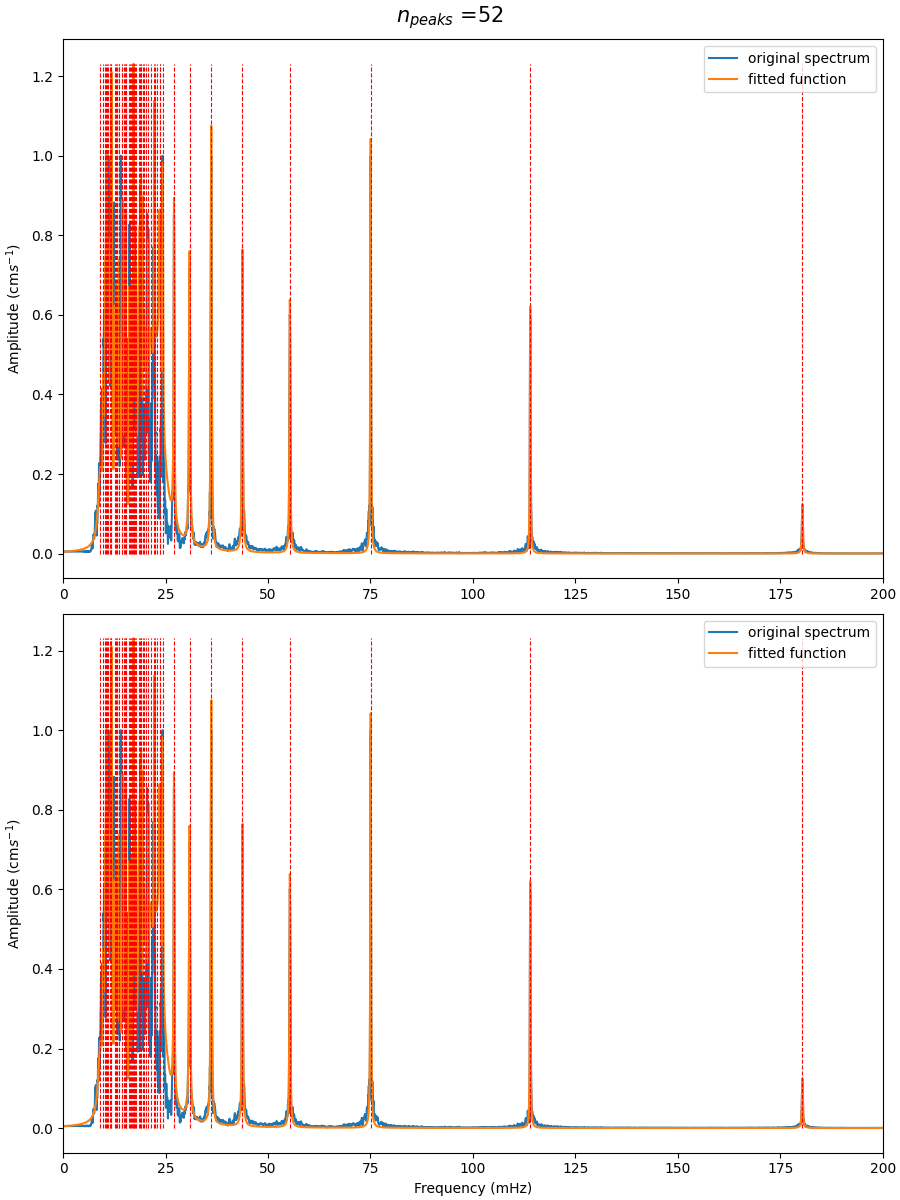
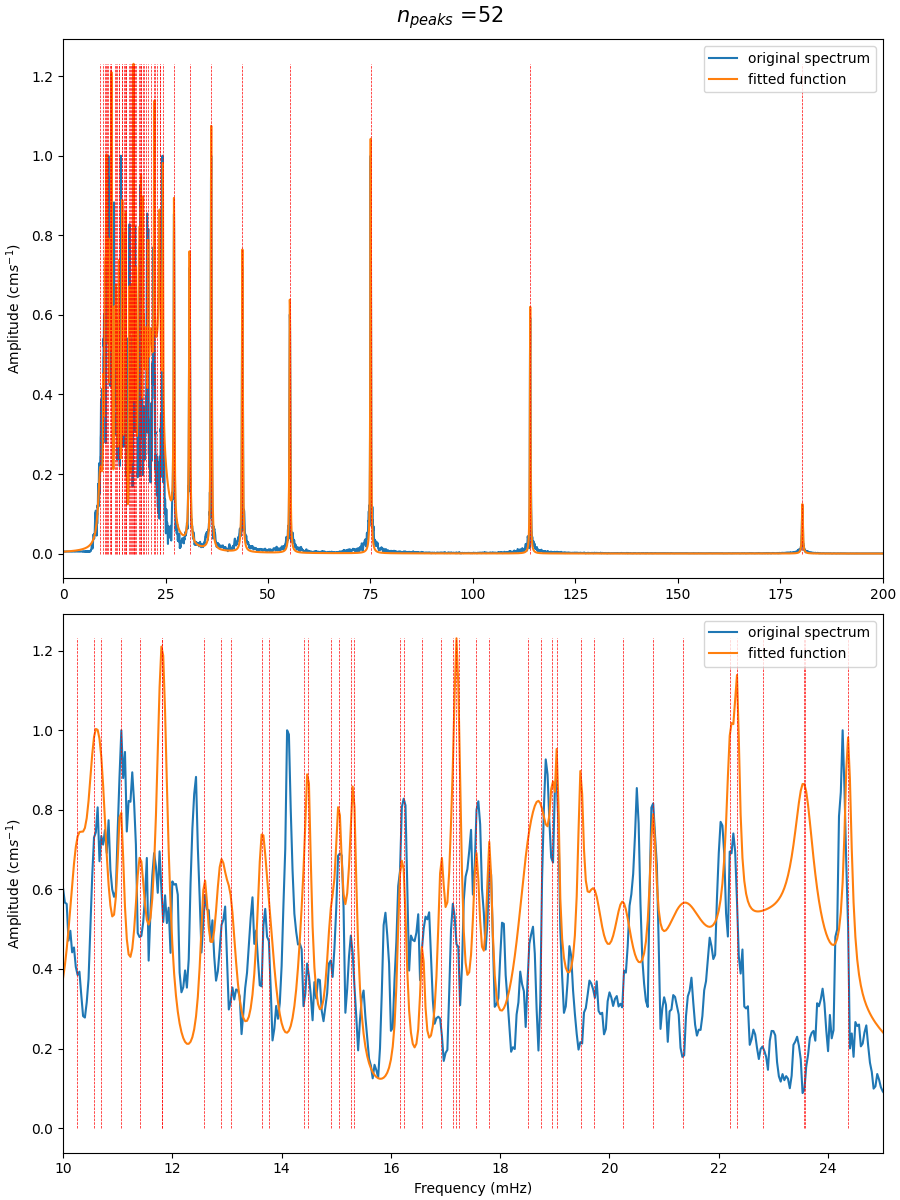
need to fix issue with vzc files

diff --git a/code/plotting/temp_period_spacings.py b/code/plotting/temp_period_spacings.py
@@ -1,0 +1,324 @@
+import numpy as np
+import matplotlib.pyplot as plt
+import scipy.sparse as sp
+from scipy import interpolate
+import scipy.io as sci
+from scipy import stats
+from scipy.signal import find_peaks
+import scipy.sparse.linalg as spla
+
+
+
+
+
+
+
+class BackgroundProfile:
+    def __init__(self, nnew, ntotal, numprocs, time_step, refstate):
+        # ---- parameters ----
+        self.dt = time_step
+
+        # ---- load background data ----
+        backdat = np.genfromtxt(refstate, delimiter='\t')
+
+        # ---- geometry ----
+        self.nn = int(ntotal / 2)
+        self.nzones = len(backdat)
+        self.nz = int(self.nzones / numprocs)
+
+        # ---- background quantities ----
+        self.radius = backdat[:, 0]
+        self.den = backdat[:, 1]
+        self.rho = self.den
+        self.temp = backdat[:, 2]
+        self.dtbardz = backdat[:, 3]
+        self.diff = backdat[:, 4]
+        self.g = backdat[:, 5]
+        self.hrho = backdat[:, 6]   # negative inverse scale height
+        self.hrho2 = backdat[:, 7]
+        self.a = backdat[:, 8:10]
+        self.b = backdat[:, 11:13]
+
+        # ---- derived quantities ----
+        self.gamma = 5 / 3
+        self.N2 = (self.g * self.diff) / (self.gamma * self.temp)
+
+
+
+
+def radial_order_calculation(foundpeakidxs, foundpeaks, spectrum, radius):
+    freqs = foundpeaks[::-1]
+    amps = spectrum[foundpeakidxs[::-1], :]
+
+
+    from scipy.signal import find_peaks
+    rad_orders = []
+    lower = 44
+    for i in range(len(freqs)):
+
+        from scipy.ndimage import gaussian_filter1d
+        if i < 10:
+            A = gaussian_filter1d(amps[i, lower:135], sigma=1)
+            dAdr = np.gradient(A, radius[lower:135])
+            d2Adr2 = np.gradient(dAdr, radius[lower:135])
+        else:
+            A = amps[i, lower:135]
+            dAdr = np.gradient(A, radius[lower:135])
+            d2Adr2 = np.gradient(dAdr, radius[lower:135])
+
+        absA = np.abs(A)
+        nodes, foo = find_peaks(-absA, distance=2)
+        rad_orders.append(len(nodes))
+
+    return rad_orders
+
+
+
+def pspmake2_period(period_days, nstart):
+    import numpy as np
+
+    period_days = np.asarray(period_days)
+
+    # Period spacings (in days)
+    deltap = -np.diff(period_days)
+
+    # Reverse ordering if required
+    period_r = period_days[::-1]
+
+    radial_orders_r = np.arange(len(period_r)) + nstart
+    radial_orders = -radial_orders_r[::-1]
+
+    return deltap, period_days[1:], radial_orders[1:]
+
+
+
+def spectrum_to_periodogram(spectrum, frequencies):
+    # Input spectra at one radius and corresponding frequencies
+    periods = 1 / (frequencies * 1e-6)  # in seconds
+    P = periods / (3600 * 24)  # convert to days
+
+    return spectrum
+
+
+
+def expectedpeaks(foundfreqs, num_lines):
+    # Takes in foundpeaks - peak frequencies in microhz going from high to low n
+    peak_periods = 1 / (foundfreqs * 1e-6)  # in seconds
+    peak_periods = peak_periods / (3600 * 24)  # in days
+    start = peak_periods[-2] #n=-1
+    print('start:', start)
+    step = peak_periods[-4] - peak_periods[-3] # n=-2 - n=-1
+    print('step:', step)
+    expected_p = start + step * np.arange(num_lines)
+    expected_f = 1 / ((expected_p * 3600 * 24)) * 1e6
+
+    return expected_p, expected_f
+
+
+
+
+bg = BackgroundProfile(nnew=1024, ntotal=722, numprocs=30, time_step=1000, refstate='/home/b9027676/PhD/fittinglorentzianswithbetsy/2MS_50_90.dat')
+radius, rho, temp, dtbardz, diff, g, N2 = bg.radius[::10], bg.rho[::10], bg.temp[::10], bg.dtbardz[::10], bg.diff[::10], bg.g[::10], bg.N2[::10]
+
+
+initial_datafile_50 = '/home/b9027676/PhD/fittinglorentzianswithbetsy/xc0.5-nofield-composite_m1.npz'
+
+initial_datafile_214 = '/home/b9027676/PhD/fittinglorentzianswithbetsy/xc0.5-a214-composite_m1.npz'
+
+initial_datafile_514 = '/home/b9027676/PhD/fittinglorentzianswithbetsy/xc0.5-a514-composite_m1.npz'
+
+initial_datafile_brn = '/home/b9027676/PhD/fittinglorentzianswithbetsy/xc0.5-brn-composite_m1.npz'
+
+initial_datafile_nrbrn1 = '/home/b9027676/PhD/fittinglorentzianswithbetsy/xc0.5-nrbrn1-composite_m1.npz'
+
+initial_datafile_fr2brn1 = '/home/b9027676/PhD/fittinglorentzianswithbetsy/xc0.5-fr2brn1-composite_m1.npz'
+
+"""def read_data(initial_datafile):
+    data = np.load(initial_datafile)
+
+    allf = data['allfrequencies']
+    allspectrum = data['allspectrum']
+    foundpeaks = data['freq_peaks']
+    foundpeakidxs = data['peak_indices']
+    allfoundamps = data['allpeakamplitudes']
+
+    f1 = data['frequencies1']
+    spectrum1 = data['spectrum1']
+    foundamps1 = data['peak_amplitudes1']
+
+
+    #data1 = np.load(final_datafile)
+
+
+    return allf, allspectrum, allfoundamps, foundpeaks, foundpeakidxs, f1, spectrum1, foundamps1"""
+
+
+def read_data1(initial_datafile):
+    data = np.load(initial_datafile)
+
+    freq = data['freq']
+    period = data['period']
+    spec_composite = data['compositespectrum']
+    peakidxs = data['peak_idxs']
+    specallradii = data['allspec']
+
+
+    return freq, period, spec_composite , peakidxs, specallradii
+
+
+
+
+
+print('---- No Field m1 ----')
+freq50, period50, spec_composite50 , peakidxs50, specallradii50 = read_data1(initial_datafile_50)
+periodpeaks50 = period50[peakidxs50]
+deltap_peaks_i50, period_peaks_i50, radial_orders_i50 = pspmake2_period(periodpeaks50, nstart=0)
+spectrum1_50 = spectrum_to_periodogram(spec_composite50, freq50)
+
+
+print('---- a214 m1 ----')
+freqa214, period214, spec_composite214 , peakidxs214, specallradii214 = read_data1(initial_datafile_214)
+periodpeaks214 = period214[peakidxs214]
+deltap_peaks_i214, period_peaks_i214, radial_orders_i214 = pspmake2_period(periodpeaks214, nstart=0)
+spectrum1_214 = spectrum_to_periodogram(spec_composite214, freqa214)
+
+print('---- a514 m1 ----')
+freq514, period514, spec_composite514 , peakidxs514, specallradii514 = read_data1(initial_datafile_514)
+periodpeaks514 = period514[peakidxs514]
+deltap_peaks_i514, period_peaks_i514, radial_orders_i514 = pspmake2_period(periodpeaks514, nstart=0)
+spectrum1_514 = spectrum_to_periodogram(spec_composite514, freq514)
+
+
+print('---- brn m1 ----')
+freqbrn, periodbrn, spec_compositebrn , peakidxsbrn, specallradiibrn = read_data1(initial_datafile_brn)
+periodpeaksbrn = periodbrn[peakidxsbrn]
+deltap_peaks_ibrn, period_peaks_ibrn, radial_orders_ibrn = pspmake2_period(periodpeaksbrn, nstart=0)
+spectrum1_brn = spectrum_to_periodogram(spec_compositebrn, freqbrn)
+
+
+print('---- nrbrn1 m1 ----')
+freqnrbrn1, periodnrbrn1, spec_compositenrbrn1 , peakidxsnrbrn1, specallradiinrbrn1 = read_data1(initial_datafile_nrbrn1)
+periodpeaksnrbrn1 = periodnrbrn1[peakidxsnrbrn1]
+deltap_peaks_inrbrn1, period_peaks_inrbrn1, radial_orders_inrbrn1 = pspmake2_period(periodpeaksnrbrn1, nstart=0)
+spectrum1_nrbrn1 = spectrum_to_periodogram(spec_compositenrbrn1, freqnrbrn1)
+
+print('---- fr2brn1 m1 ----')
+freqfr2brn1, periodfr2brn1, spec_compositefr2brn1 , peakidxsfr2brn1, specallradiifr2brn1 = read_data1(initial_datafile_fr2brn1)
+periodpeaksfr2brn1 = periodfr2brn1[peakidxsfr2brn1]
+deltap_peaks_ifr2brn1, period_peaks_ifr2brn1, radial_orders_ifr2brn1 = pspmake2_period(periodpeaksfr2brn1, nstart=0)
+spectrum1_fr2brn1 = spectrum_to_periodogram(spec_compositefr2brn1, freqfr2brn1)
+
+"""
+
+print('---- A214 ----')
+allf214, allspectrum214, allfoundamps214, foundpeaks214, foundpeakidxs214, f1_214, spectrum1_214, foundamps1_214 = read_data(initial_datafile_a214)
+deltap_peaks_a214, period_peaks_a214, radial_orders_a214 = pspmake2(foundpeaks214, nstart=0)
+#deltap_peaks_a214, period_peaks_a214, radial_orders_a214 = pspmake(foundpeaks214, foundpeakidxs214, allspectrum214, nstart=0)
+print(radial_orders_a214[0:4], len(radial_orders_a214))
+
+
+print('---- A514 ----')
+allf514, allspectrum514, allfoundamps514, foundpeaks514, foundpeakidxs514, f1_514, spectrum1_514, foundamps1_514 = read_data(initial_datafile_a514)
+deltap_peaks_a514, period_peaks_a514, radial_orders_a514 = pspmake2(foundpeaks514, nstart=0)
+#deltap_peaks_a514, period_peaks_a514, radial_orders_a514 = pspmake(foundpeaks514, foundpeakidxs514, allspectrum514, nstart=0)
+print(radial_orders_a514[0:4], len(radial_orders_a514))"""
+
+
+plt.figure()
+#plt.title('Initial Model')
+plt.plot(period_peaks_i50, deltap_peaks_i50, label='No Field', color='blue', marker='o', linestyle='solid')
+#plt.plot(period_peaks_i214, deltap_peaks_i214, label='a214', color='orange', marker='o', linestyle='solid')
+#plt.plot(period_peaks_i514, deltap_peaks_i514, label='a514', color='green', marker='o', linestyle='solid')
+plt.plot(period_peaks_ibrn, deltap_peaks_ibrn, label='brn', color='lightsteelblue', marker='o', linestyle='solid')
+#plt.plot(period_peaks_inrbrn1, deltap_peaks_inrbrn1, label='nrbrn1', color='purple', marker='o', linestyle='solid')
+#plt.plot(period_peaks_ifr2brn1, deltap_peaks_ifr2brn1, label='fr2brn1', color='grey', marker='o', linestyle='solid')
+plt.xlabel('Period (d)')
+plt.ylabel('Period Spacing (d)')
+plt.legend()
+plt.grid()
+plt.show()
+
+
+plt.figure()
+plt.title('Initial Model')
+plt.plot(radial_orders_i50, deltap_peaks_i50, label='No Field', color='blue', marker='o', linestyle='solid')
+#plt.plot(radial_orders_a214, deltap_peaks_a214, label='A214 Peaks', color='orange', marker='o', linestyle='solid')
+#plt.plot(radial_orders_a514, deltap_peaks_a514, label='A514 Peaks', color='green', marker='o', linestyle='solid')
+plt.xlabel('Radial Order')
+plt.ylabel('Period Spacing (s)')
+plt.legend()
+plt.grid()
+plt.show()
+
+
+
+
+
+
+
+
+
+
+
+
+
+############################ RADIAL ORDER IDENTIFICATION FUNCTION DOWN HERE!!!!!!!!!!
+"""for i in range(1, len(freqs50)):
+
+    from scipy.ndimage import gaussian_filter1d
+    if i < 11:
+        A = gaussian_filter1d(amps50[i, lower:135], sigma=1)
+        dAdr = np.gradient(A, radius[lower:135])
+        d2Adr2 = np.gradient(dAdr, radius[lower:135])
+    elif i >11 and i<14:
+        A = gaussian_filter1d(amps50[i, lower:135], sigma=0.5)
+        dAdr = np.gradient(amps50[i, lower:135], radius[lower:135])
+        d2Adr2 = np.gradient(dAdr, radius[lower:135])
+    else:
+        A = amps50[i, lower:135]
+        dAdr = np.gradient(amps50[i, lower:135], radius[lower:135])
+        d2Adr2 = np.gradient(dAdr, radius[lower:135])
+
+
+    num_new_points = 10000 # or 10000 
+    x_new = np.linspace(radius[lower:135].min(), radius[lower:135].max(), num_new_points) # Interpolate linearly 
+    y_new = np.interp(x_new, radius[lower:135], A)
+    dydr_new = np.interp(x_new, radius[lower:135], dAdr)
+    d2ydr2_new = np.interp(x_new, radius[lower:135], d2Adr2)
+
+    sign_changes = np.where((np.diff(np.sign(dydr_new))) != 0)[0]
+    print("sign",np.sign(dydr_new))
+    print("diff",np.diff(np.sign(dydr_new)))
+    zero_crossings = sign_changes
+    print('expected:', i)
+    #print('found:', len(zero_crossings)//2)
+
+    troughs = []
+    peaks = []
+    for i in range(len(sign_changes)):
+        dy_dr_i = dydr_new[sign_changes[i]]
+        dy_dr_i_1 = dydr_new[sign_changes[i]+1]
+        if dy_dr_i<0 and dy_dr_i_1>0:
+            troughs.append(x_new[zero_crossings[i]])
+        elif dy_dr_i>0 and dy_dr_i_1<0:
+            peaks.append(x_new[zero_crossings[i]])
+    
+    print('found:', len(troughs))
+    plt.plot(x_new[1:], np.diff(np.sign(dydr_new)))
+    plt.show()
+
+
+    plt.figure()
+    #plt.plot(radius[lower:135], A, label=f'Freq: {freqs50[i]} microHz, Idx: {idxs50[i]}, Suspected Radial Order: {i}')
+    plt.plot(x_new, y_new, label='Interpolated A')
+    plt.hlines(0, np.min(radius[lower:135]), np.max(radius[lower:135]), linestyle='dashed', color='black')
+    #plt.vlines(radius[lower:135][zero_crossings], np.min(dAdr), np.max(dAdr), linestyle='dashed', color='orange', label='Detected Zero Crossings')
+    #plt.vlines(x_new[zero_crossings], np.min(dAdr), np.max(dAdr), linestyle='dashed', color='orange', label='Detected Zero Crossings')
+    plt.vlines(troughs, np.min(A), np.max(A), linestyle='dashed', color='orange', label='Detected troughs')
+    plt.vlines(peaks, np.min(A), np.max(A), linestyle='dashed', color='red', label='Detected peaks')
+    
+    plt.xlabel('Radius')
+    plt.ylabel('Mode Amplitude')
+    plt.legend()
+    plt.grid()
+    plt.savefig(f"peaks and troughs_{i}.png")"""

diff --git a/code/plotting/MCMC_plot.py b/code/plotting/MCMC_plot.py
@@ -56,9 +56,11 @@ class fit_analysis_plots():
         if zoom:
             fig, axs = plt.subplots(2,1,figsize = (9,12),constrained_layout = True)
             axs.flatten()[1].set_xlabel("Frequency (mHz)")
+            axs.flatten()[0].set_xlim(0,200)
+            axs.flatten()[1].set_xlim(10,25)
             fig.suptitle(r"$n_{peaks}$ =" + f"{self.n_peaks}",fontsize = 15)
         else:
-            fig, axs = plt.subplots(1,1,figsize = (9,3),constrained_layout = True)
+            fig, axs = plt.subplots(1,1,figsize = (5,3),constrained_layout = True)
             axs.set_title(r"$n_{peaks}$ =" + f"{self.n_peaks}",fontsize = 15)
         for ax in np.array([axs]).flatten():
             ax.plot(fullfreq,spectra,label = 'original spectrum')
@@ -66,12 +68,13 @@ class fit_analysis_plots():
 
             if log:
                 ax.set_yscale("log")
-            ax.set_xlim(0,200)
+            if not zoom:
+                ax.set_xlim(0,200)
             ax.legend()
             ax.set_ylabel(r"Amplitude (cm$s^{-1}$)")
 
             for loc in self.locs:
-                ax.plot(np.ones(100)*loc,np.linspace(0,np.max(f_fit),100),linestyle = "--",color = "red",linewidth = 0.8)
+                ax.plot(np.ones(100)*loc,np.linspace(0,np.max(f_fit),100),linestyle = "--",color = "red",linewidth = 0.5)
 
         directory = results_dir + f"{title}_full_freq_d{n_draws}_t{n_tune}_peaks{n_peaks}/"
 
@@ -205,6 +208,9 @@ class period_spacings():
         plt.ylabel(fr"Period Spacings ($days$)")
         plt.xlabel(fr"Period ($days$)")
         plt.title(fr"{self.title}")
+        if np.min(del_p)<-0.3:
+            plt.ylim(-0.2,0.1)
+            plt.xlim(0,2)
         plt.savefig(directory + f"period_spacing_{self.title}.png")
 
 if __name__ == "__main__":
